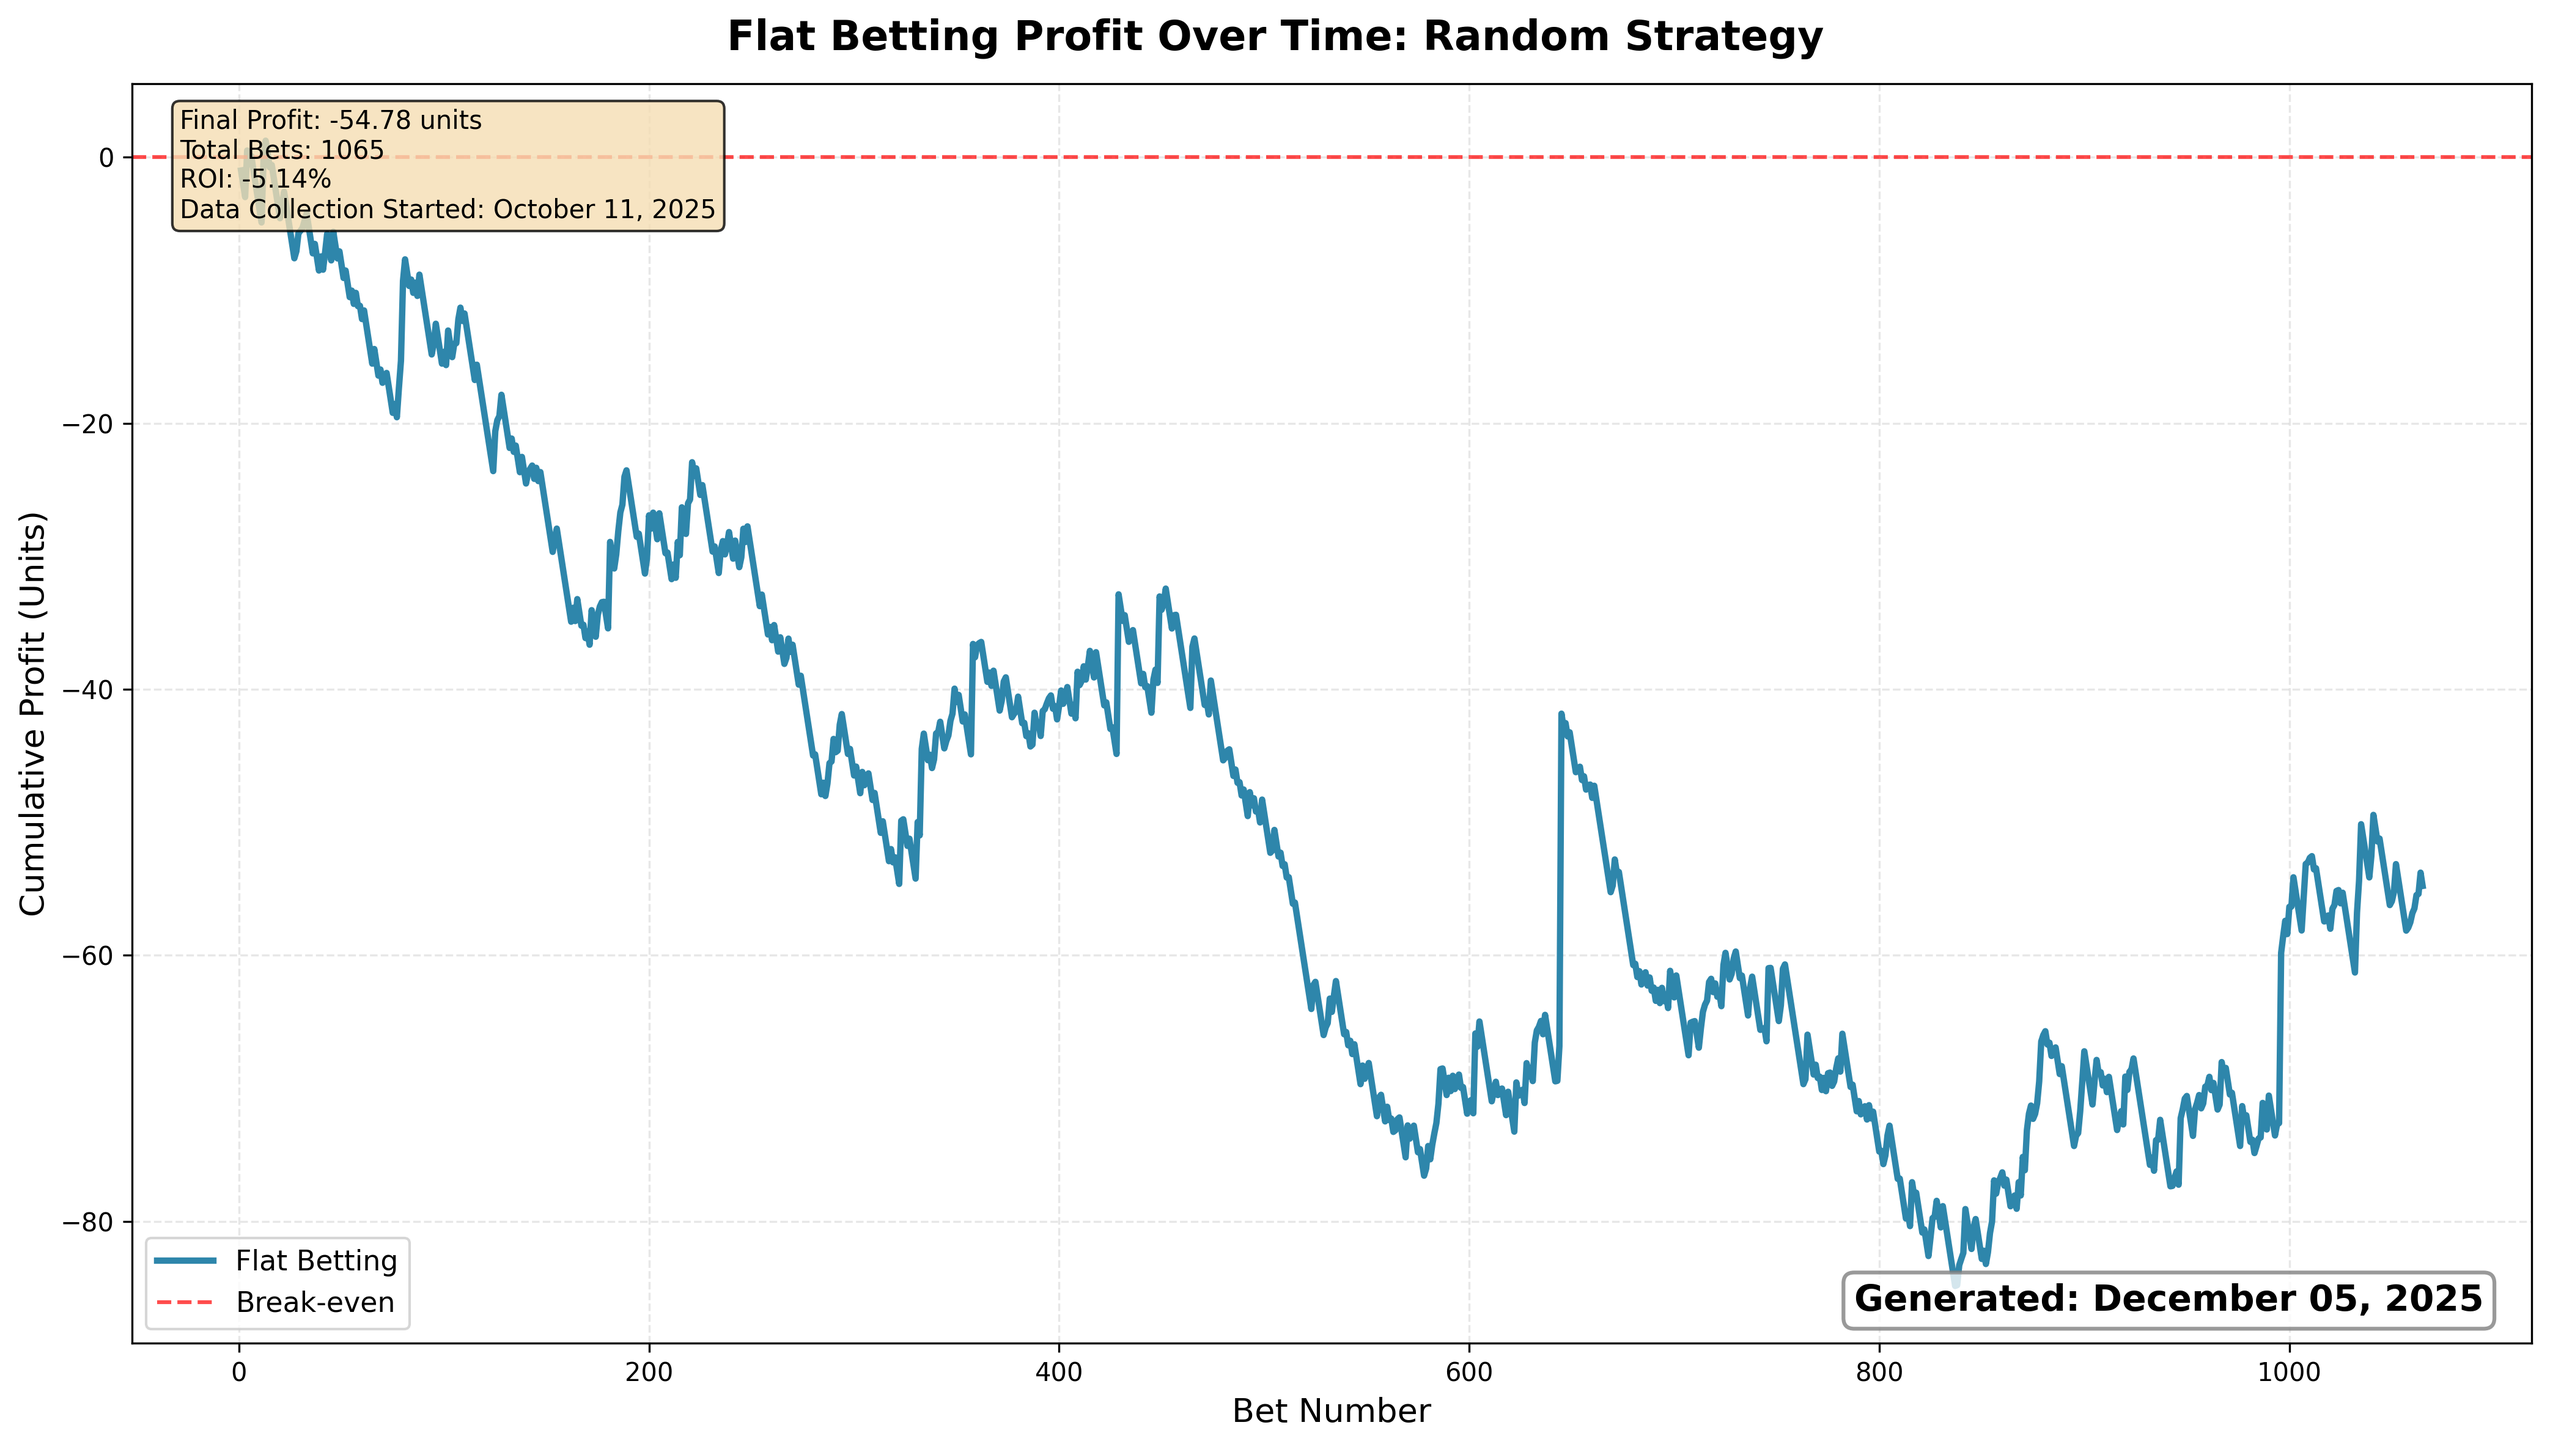
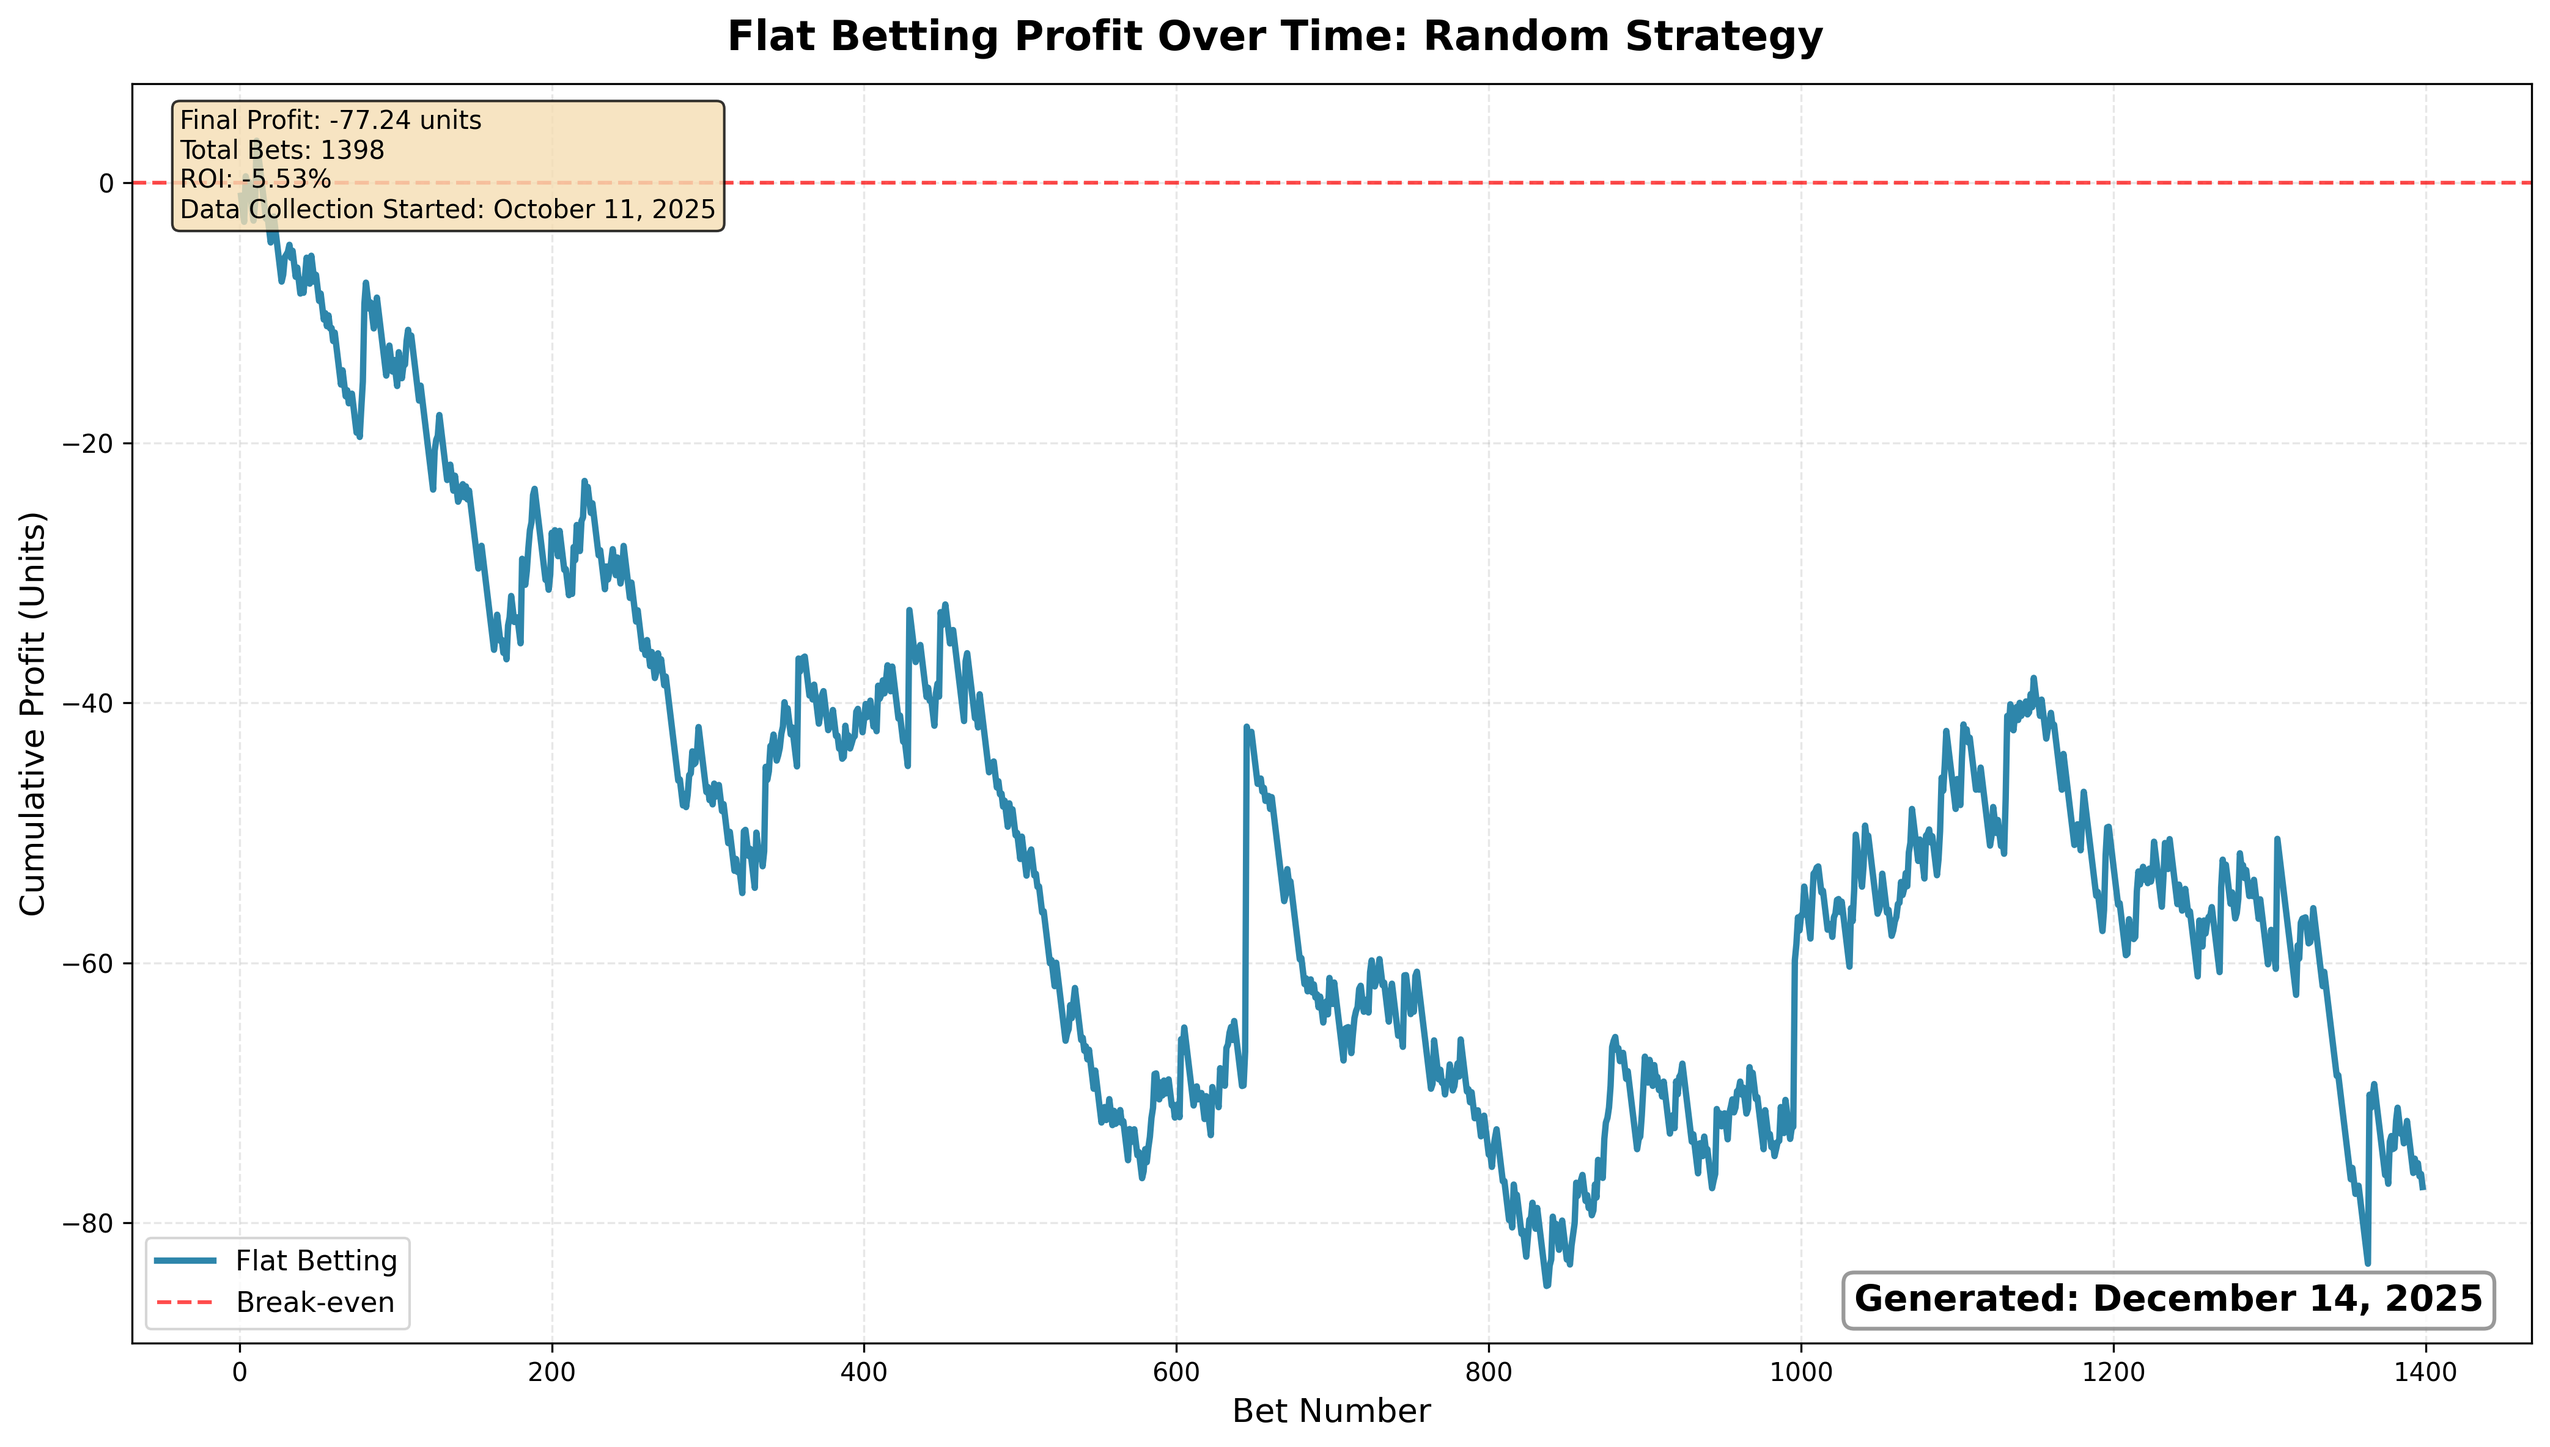
Updated charts and roi calculations.

diff --git a/codebase/analysis/profit_over_time.py b/codebase/analysis/profit_over_time.py
@@ -56,11 +56,11 @@ STRATEGIES = [
 # Kelly fraction
 KELLY_FRACTION = 0.5
 
-# EV threshold - only place bets with EV above this percentage
-MIN_EV_THRESHOLD = 0.05  # 5% minimum EV to place bet
+# EV threshold - only place bets with EV between these percentages
+MIN_EV_THRESHOLD = 0.05
+MAX_EV_THRESHOLD = 0.35
 
 # Z-score threshold for max bet
-EV_MAX_BET_THRESHOLD = 0.2
 ZSCORE_MAX_BET_THRESHOLD = 3.5
 
 
@@ -85,8 +85,8 @@ def kelly_bet(odds, fair_odds, ev=None, zscore=None, max_multiplier=2.5):
     if ev is not None and not pd.isna(ev):
         if ev < MIN_EV_THRESHOLD:
             return 0
-        if ev > EV_MAX_BET_THRESHOLD:
-            return max_multiplier
+        if ev > MAX_EV_THRESHOLD:
+            return 0
 
     p = 1 / fair_odds
     p = max(min(p, 0.9999), 0.0001)

diff --git a/codebase/analysis/roi.py b/codebase/analysis/roi.py
@@ -55,11 +55,11 @@ STRATEGIES = [
 # Kelly fraction
 KELLY_FRACTION = 0.5
 
-# EV threshold - only place bets with EV above this percentage
+# EV threshold - only place bets with EV between these percentages
 MIN_EV_THRESHOLD = 0.05
+MAX_EV_THRESHOLD = 0.35
 
 # Z-score threshold for max bet
-EV_MAX_BET_THRESHOLD = 0.2
 ZSCORE_MAX_BET_THRESHOLD = 3.5
 
 
@@ -85,8 +85,8 @@ def kelly_bet(odds, fair_odds, ev=None, zscore=None, max_multiplier=2.5):
     if ev is not None and not pd.isna(ev):
         if ev < MIN_EV_THRESHOLD:
             return 0
-        if ev > EV_MAX_BET_THRESHOLD:
-            return max_multiplier
+        if ev > MAX_EV_THRESHOLD:
+            return 0
 
     p = 1 / fair_odds
     p = max(min(p, 0.9999), 0.0001)
